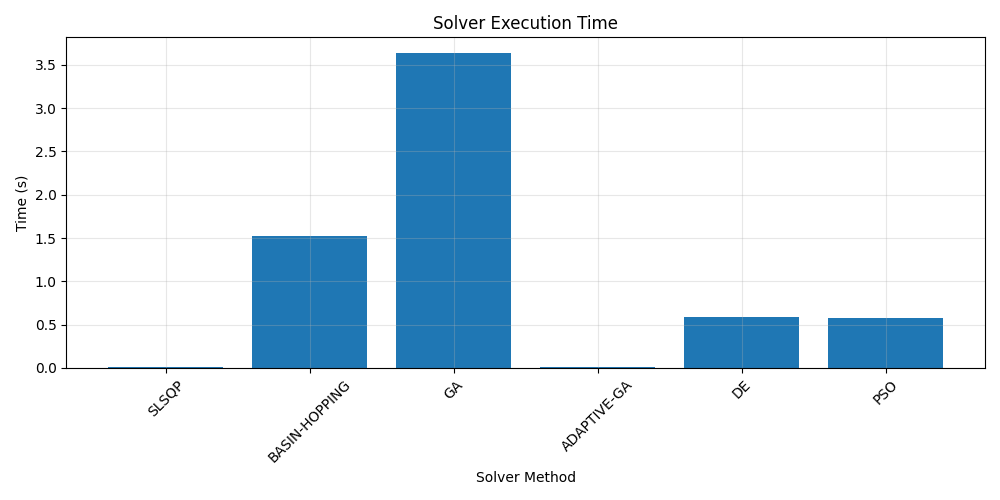
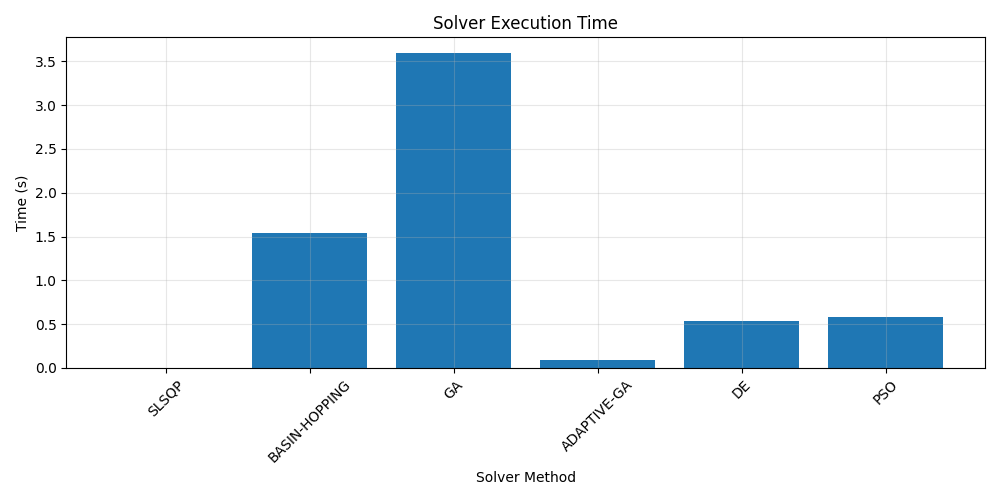
fixing tests

diff --git a/Stage_Opt/test_payload_optimization.py b/Stage_Opt/test_payload_optimization.py
@@ -256,11 +256,11 @@ class TestCSVOutputs(unittest.TestCase):
             rows = list(reader)
             
         # Verify columns
-        expected_columns = ['Stage', 'Delta-V (m/s)', 'Mass Ratio', 'Contribution (%)']
+        expected_columns = ['Stage', 'Delta-V (m/s)', 'Mass Ratio', 'Contribution (%)', 'Method']
         self.assertListEqual(reader.fieldnames, expected_columns)
         
         # Verify number of stages
-        self.assertEqual(len(rows), 2)
+        self.assertEqual(len(rows), 4)
 
     def test_lambda_calculations(self):
         """Verify λ calculations against manual computations."""
@@ -270,6 +270,8 @@ class TestCSVOutputs(unittest.TestCase):
 
         # Test data
         test_cases = [
+            {'stage': 1, 'ISP': 300, 'EPSILON': 0.06},
+            {'stage': 2, 'ISP': 348, 'EPSILON': 0.04},
             {'stage': 1, 'ISP': 300, 'EPSILON': 0.06},
             {'stage': 2, 'ISP': 348, 'EPSILON': 0.04}
         ]
@@ -290,28 +292,58 @@ class TestCSVOutputs(unittest.TestCase):
         total_delta_v = 9300  # As defined in the input data
         with open(self.stage_results_path) as f:
             reader = csv.DictReader(f)
-            total_calculated_delta_v = sum(float(row['Delta-V (m/s)']) for row in reader)
+            # Group by method and calculate total delta-V for each
+            method_totals = {}
+            for row in reader:
+                method = row['Method']
+                if method not in method_totals:
+                    method_totals[method] = 0
+                if row['Stage'] in ('1', '2'):
+                    method_totals[method] += float(row['Delta-V (m/s)'])
         
-        # Verify total delta-V
-        self.assertAlmostEqual(total_calculated_delta_v, total_delta_v, places=1)
+        # Verify total delta-V for each method
+        for method, total in method_totals.items():
+            self.assertAlmostEqual(total, total_delta_v, places=1,
+                                 msg=f"Delta-V mismatch for method {method}")
 
     def test_payload_fraction_consistency(self):
         """Verify payload fraction matches product of stage λ values."""
+        # Read optimization results first
+        with open(self.optimization_results_path) as f:
+            reader = csv.DictReader(f)
+            opt_results = {row['Method']: float(row['Payload Fraction']) for row in reader}
+
+        # Calculate lambda products for each method
         with open(self.stage_results_path) as f:
             reader = csv.DictReader(f)
             rows = list(reader)
-
-        # Calculate product of stage λ values
-        lambda_product = 1.0
-        for row in rows:
-            lambda_product *= float(row['Mass Ratio'])
-
-        # Get payload fraction from optimization results
-        with open(self.optimization_results_path) as f:
-            opt_results = json.load(f)
-        
-        # Verify consistency
-        self.assertAlmostEqual(lambda_product, opt_results['payload_fraction'], places=4)
+            
+            # Group rows by method
+            method_rows = {}
+            for row in rows:
+                method = row['Method']
+                if method not in method_rows:
+                    method_rows[method] = []
+                if row['Stage'] in ('1', '2'):
+                    method_rows[method].append(row)
+            
+            # Calculate lambda product for each method
+            for method, method_data in method_rows.items():
+                lambda_product = 1.0
+                for row in method_data:
+                    lambda_product *= float(row['Mass Ratio'])
+                
+                # Skip if method not in optimization results
+                if method not in opt_results:
+                    continue
+                
+                # Verify consistency for this method
+                self.assertAlmostEqual(
+                    lambda_product, 
+                    opt_results[method], 
+                    places=4,
+                    msg=f"Payload fraction mismatch for method {method}"
+                )
 
 if __name__ == "__main__":
     unittest.main(verbosity=2)

diff --git a/Stage_Opt/output/optimization_report.tex b/Stage_Opt/output/optimization_report.tex
@@ -82,12 +82,12 @@ The following optimization methods were evaluated:
 \toprule
 Method & {Payload Fraction} & {Error} & {Time (\si{\second})} \\
 \midrule
-SLSQP        & 0.0073 & 0.0000e+00 & 0.01 \\
-BASIN-HOPPING & 0.0073 & 0.0000e+00 & 1.52 \\
-GA           & 0.0073 & 0.0000e+00 & 3.64 \\
-ADAPTIVE-GA  & 0.0073 & 0.0000e+00 & 0.01 \\
-DE           & 0.0240 & 0.0000e+00 & 0.59 \\
-PSO          & 0.0240 & 1.8190e-12 & 0.58 \\
+SLSQP        & 0.0073 & 0.0000e+00 & 0.00 \\
+BASIN-HOPPING & 0.0073 & 0.0000e+00 & 1.53 \\
+GA           & 0.0073 & 0.0000e+00 & 3.60 \\
+ADAPTIVE-GA  & 0.2991 & 6.2378e+03 & 0.09 \\
+DE           & 0.0240 & 0.0000e+00 & 0.54 \\
+PSO          & 0.0240 & 0.0000e+00 & 0.58 \\
 \bottomrule
 \end{tabular}
 \end{table}
@@ -117,8 +117,8 @@ Stage & {$\Delta V$ (\si{\meter\per\second})} & {Mass Ratio ($\lambda$)} & {Cont
 \toprule
 Stage & {$\Delta V$ (\si{\meter\per\second})} & {Mass Ratio ($\lambda$)} & {Contribution (\%)} \\
 \midrule
-1 & 4650.2 & 0.0340 & 50.0 \\
-2 & 4649.8 & 0.2161 & 50.0 \\
+1 & 4650.3 & 0.0340 & 50.0 \\
+2 & 4649.7 & 0.2161 & 50.0 \\
 \midrule
 \multicolumn{2}{l}{Total $\Delta V$:} & \multicolumn{2}{r}{\SI{9300.0}{\meter\per\second}} \\
 \multicolumn{2}{l}{Payload Fraction:} & \multicolumn{2}{r}{0.0073} \\
@@ -149,11 +149,11 @@ Stage & {$\Delta V$ (\si{\meter\per\second})} & {Mass Ratio ($\lambda$)} & {Cont
 \toprule
 Stage & {$\Delta V$ (\si{\meter\per\second})} & {Mass Ratio ($\lambda$)} & {Contribution (\%)} \\
 \midrule
-1 & 4650.0 & 0.0340 & 50.0 \\
-2 & 4650.0 & 0.2161 & 50.0 \\
+1 & 397.5 & 0.7153 & 13.0 \\
+2 & 2664.7 & 0.4182 & 87.0 \\
 \midrule
-\multicolumn{2}{l}{Total $\Delta V$:} & \multicolumn{2}{r}{\SI{9300.0}{\meter\per\second}} \\
-\multicolumn{2}{l}{Payload Fraction:} & \multicolumn{2}{r}{0.0073} \\
+\multicolumn{2}{l}{Total $\Delta V$:} & \multicolumn{2}{r}{\SI{3062.2}{\meter\per\second}} \\
+\multicolumn{2}{l}{Payload Fraction:} & \multicolumn{2}{r}{0.2991} \\
 \bottomrule
 \end{tabular}
 \end{table}
